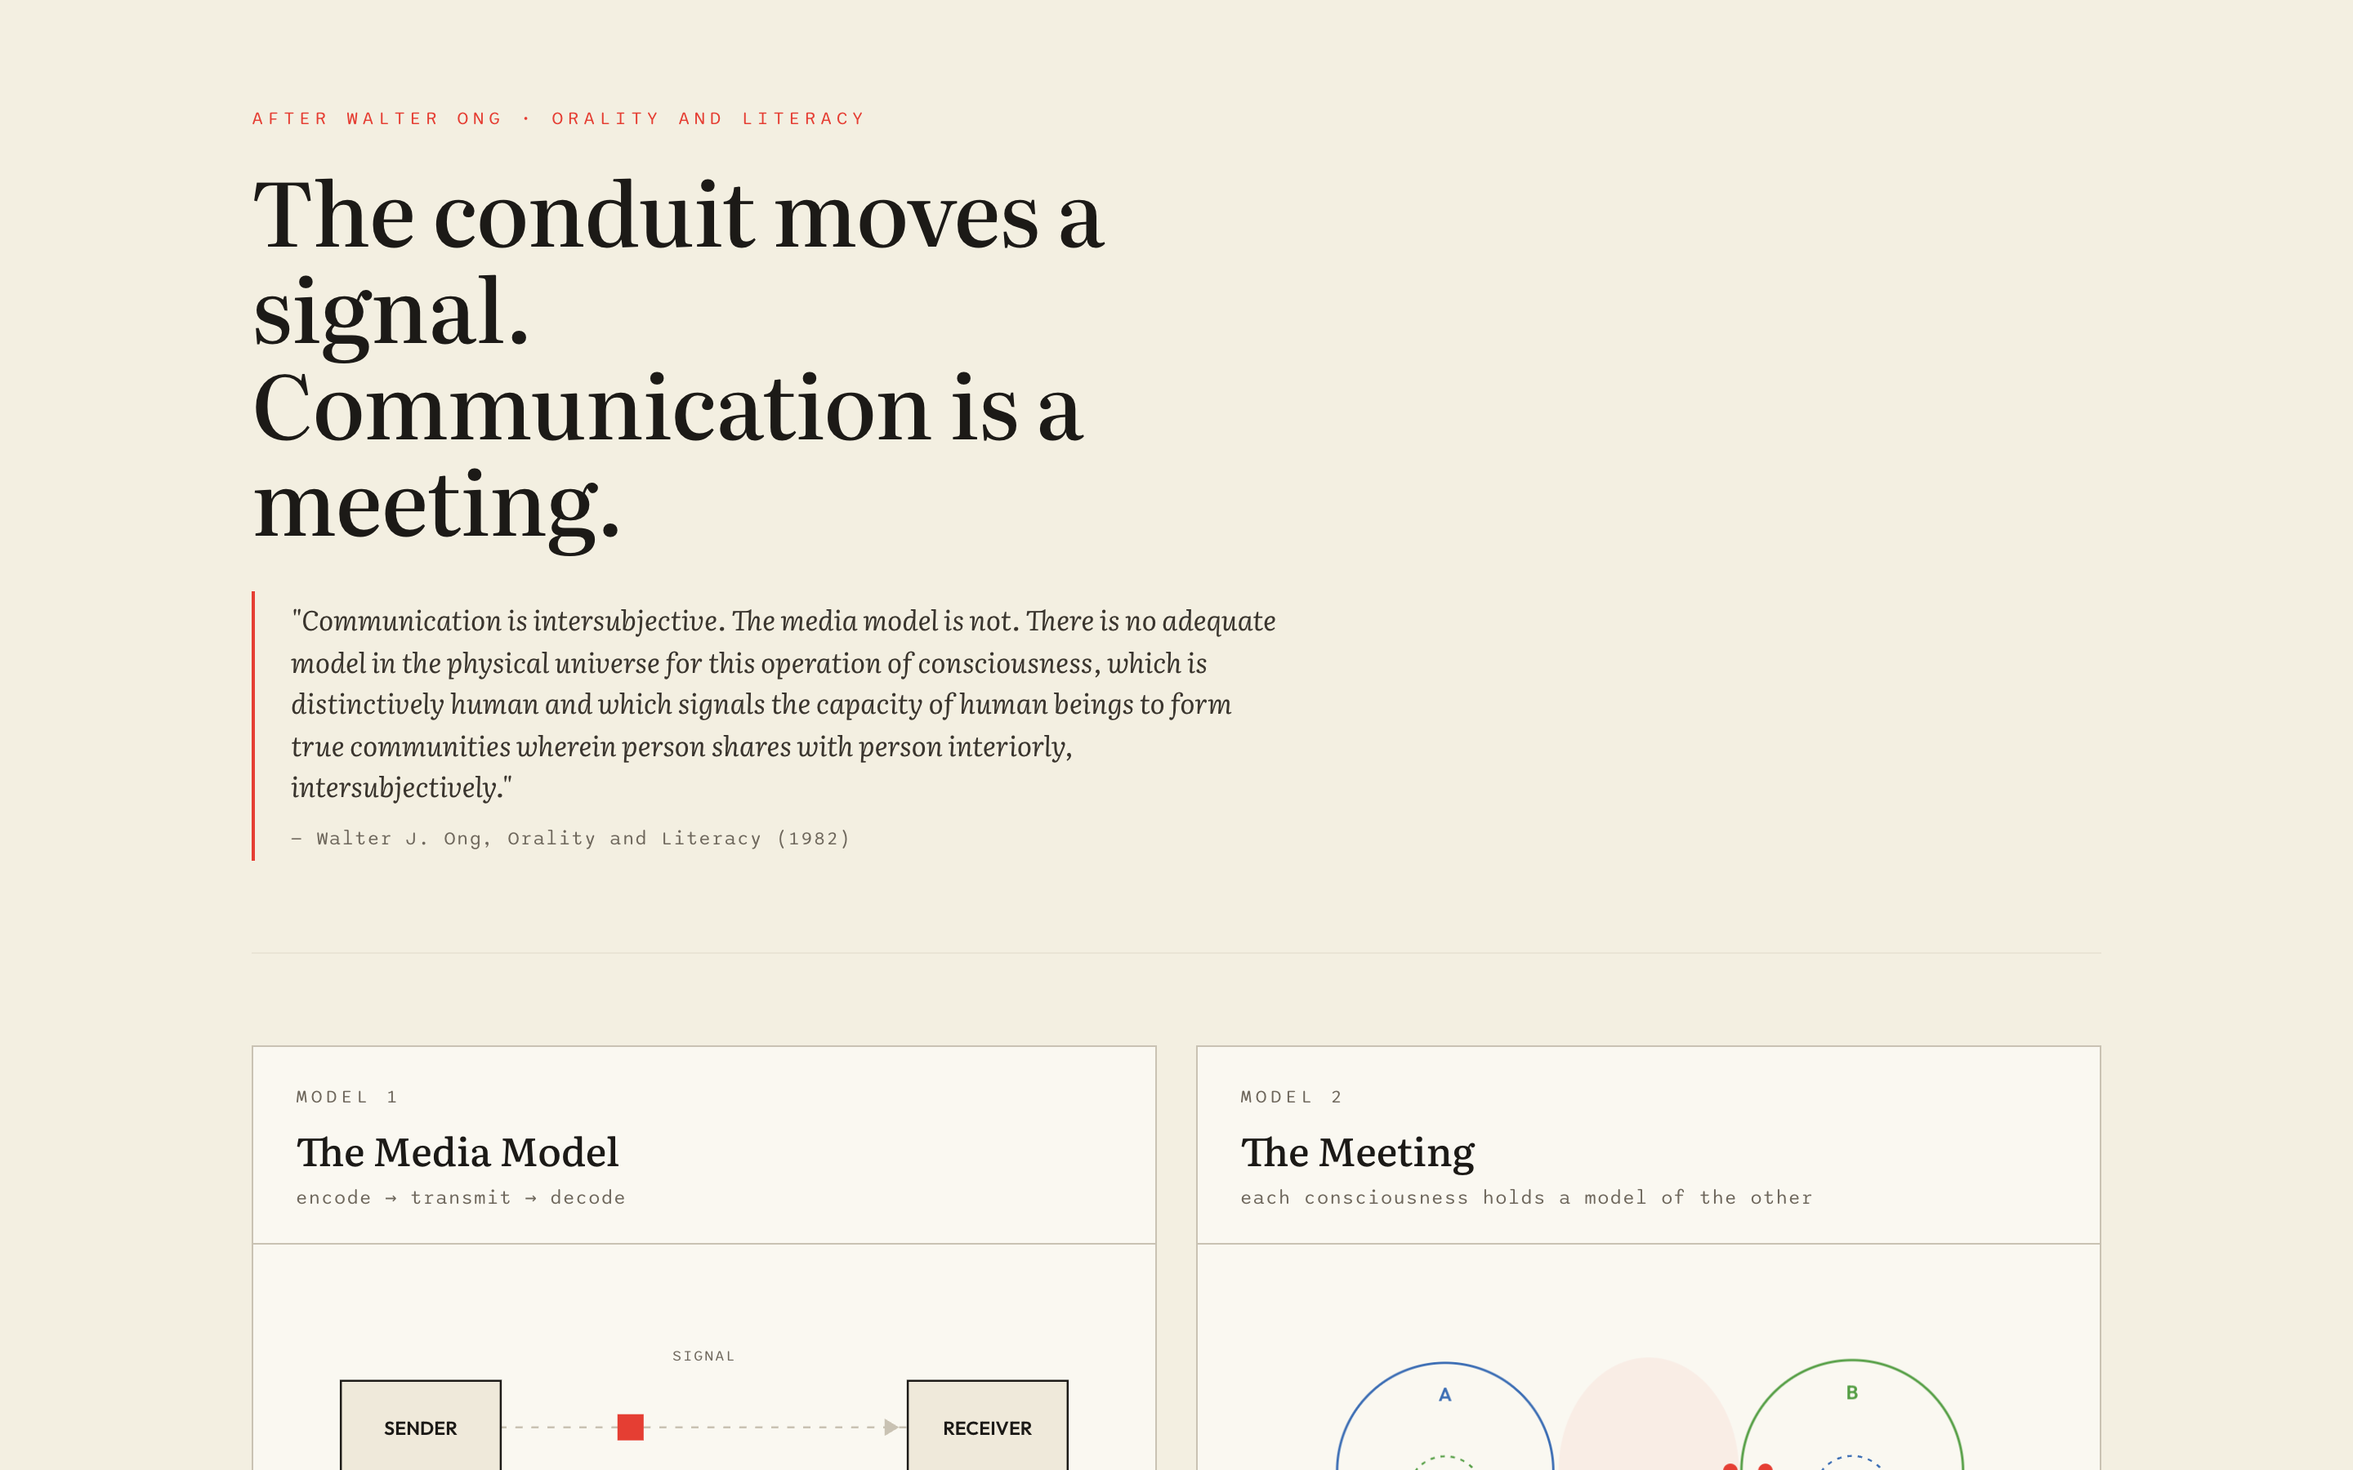
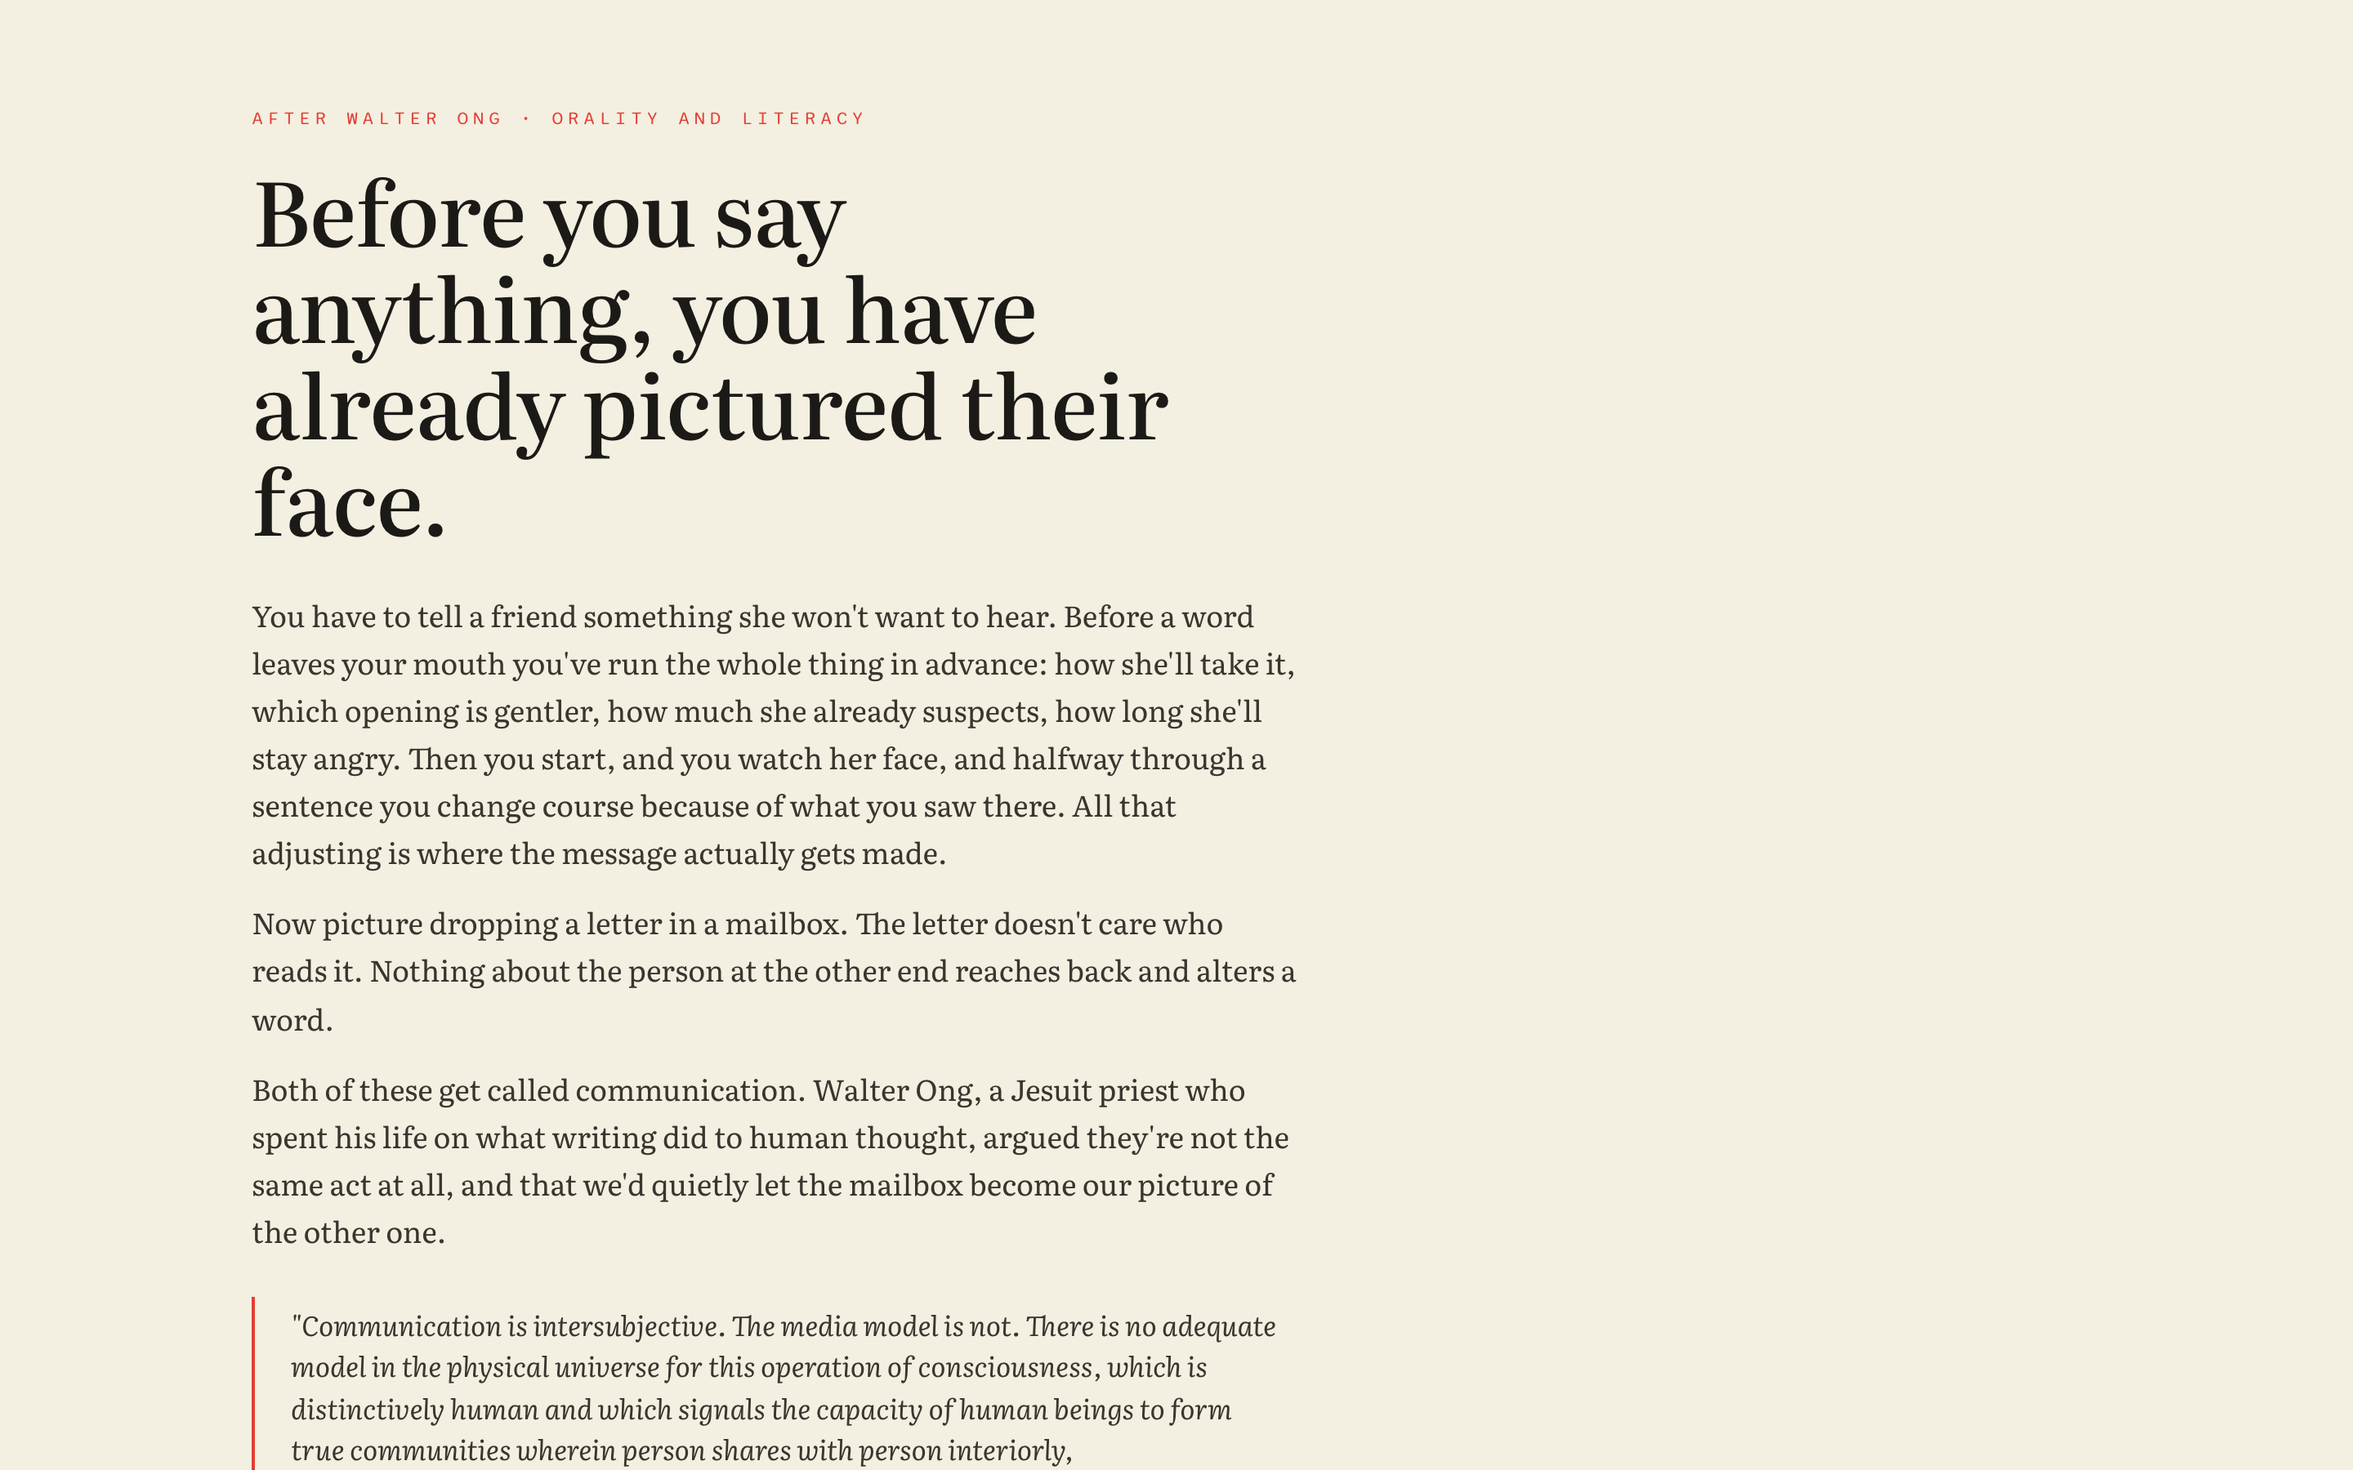
media model: rewrite copy for a general reader
The page assumed you'd read Ong and knew information theory. It opened on an
abstract headline, then a dense block quote about "this operation of
consciousness," and only got concrete around Model 3. A reader who didn't
already agree had no way in.

Rewritten to lead with the experience and name it afterwards. The opening is
now a scene most people have lived: you have to tell a friend something she
won't want to hear, you rehearse it, you watch her face, you change course
mid-sentence. Then the mailbox as contrast. Ong's quote stays but now lands on
a reader who has already felt the distinction, and a short gloss follows it
translating "intersubjective" into what it actually describes.

Each panel now carries a concrete anchor rather than a definition. Model 1 is
the postal service. Model 2 is the friend who flinches at pity. Model 3 asks
whose face you are picturing when you write for a feed. Model 4 is three in
the morning with something listening. The closing head is "a mailbox that
learned to act like a friend" instead of "the conduit perfected."

Vocabulary that went: interiors, dyad, subjecthood, reciprocity is lopsided,
optimizer, token, node, the standalone Model N references in running prose.
The comparison table lost its abstractions too — "the receiver is unchanged
machinery" is now "the receiver is equipment, it doesn't change."

The schematic labels in the SVGs (encode/transmit/decode) are deliberately
[…]

diff --git a/src/pages/media-model-vs-communication.html b/src/pages/media-model-vs-communication.html
@@ -52,6 +52,16 @@
     margin:0 0 28px;
     max-width:18ch;
   }
+  .lede{
+    font-family:var(--serif);
+    font-size:1.12rem;
+    line-height:1.62;
+    color:#3a352e;
+    max-width:62ch;
+    margin:0 0 26px;
+  }
+  .lede p{margin:0 0 14px}
+  .lede p:last-child{margin-bottom:0}
   .epigraph{
     border-left:2px solid var(--red);
     padding:4px 0 4px 22px;
@@ -280,11 +290,21 @@
 <div class="wrap">
 
   <p class="kicker">After Walter Ong · Orality and Literacy</p>
-  <h1>The conduit moves a signal. Communication is a meeting.</h1>
+  <h1>Before you say anything, you have already pictured their face.</h1>
+
+  <div class="lede">
+    <p>You have to tell a friend something she won't want to hear. Before a word leaves your mouth you've run the whole thing in advance: how she'll take it, which opening is gentler, how much she already suspects, how long she'll stay angry. Then you start, and you watch her face, and halfway through a sentence you change course because of what you saw there. All that adjusting is where the message actually gets made.</p>
+    <p>Now picture dropping a letter in a mailbox. The letter doesn't care who reads it. Nothing about the person at the other end reaches back and alters a word.</p>
+    <p>Both of these get called communication. Walter Ong, a Jesuit priest who spent his life on what writing did to human thought, argued they're not the same act at all, and that we'd quietly let the mailbox become our picture of the other one.</p>
+  </div>
 
   <div class="epigraph">
     <p>"Communication is intersubjective. The media model is not. There is no adequate model in the physical universe for this operation of consciousness, which is distinctively human and which signals the capacity of human beings to form true communities wherein person shares with person interiorly, intersubjectively."</p>
     <cite>— Walter J. Ong, Orality and Literacy (1982)</cite>
+  </div>
+
+  <div class="lede" style="margin-top:22px">
+    <p>Ong's word for it is <span class="em">intersubjective</span>, which sounds forbidding and means something you do a hundred times a day: two people each holding a live picture of the other, each adjusting to it, neither picture ever finished. Nothing in physics works this way. You can describe a radio that way, and the description will be wrong in the one respect that matters.</p>
   </div>
 
   <hr class="rule">
@@ -322,7 +342,7 @@
           </svg>
         </div>
         <div class="panel-foot">
-          <p>The message is the same object at both ends. Nothing on the receiving side is anticipated, modeled, or changed. Transport, not contact — one direction, sealed packets, an audience that only receives.</p>
+          <p>The postal service. A thought gets packed into words, the words travel, someone at the far end opens the box, and the thought comes back out. What arrives is what was sent. The sender never has to picture the reader, and the reader's existence changes nothing about what went into the box. This is the picture most of us carry around without noticing, and it's the one sitting inside the word "message."</p>
         </div>
       </div>
     </div>
@@ -333,7 +353,7 @@
         <div class="panel-head">
           <span class="panel-num">MODEL 2</span>
           <h2 class="panel-title">The Meeting</h2>
-          <p class="panel-sub">each consciousness holds a model of the other</p>
+          <p class="panel-sub">each person holds a picture of the other</p>
         </div>
         <div class="stage">
           <svg viewBox="0 0 580 220" role="img" aria-label="Two consciousnesses, each containing a model of the other, exchange signals in both directions and are mutually changed.">
@@ -362,7 +382,7 @@
           </svg>
         </div>
         <div class="panel-foot">
-          <p>Each side carries a working model of the other — B′ inside A, A′ inside B — and adjusts to it before a word is spoken. The exchange runs both ways at once. Both are at stake; both are changed. The overlap is not a channel but a meeting.</p>
+          <p>Here both people are doing what the mailbox never does. Each carries a rough working picture of the other and keeps consulting it. She flinches at pity, so you drop the sympathetic voice before you use it. She knows you understate bad news, so she reads your calm as worse than it sounds. Each of you is adjusting to a picture of someone who is, right then, adjusting to a picture of you. That's what the overlap in the middle is. Both of you walk away slightly different from how you arrived.</p>
         </div>
       </div>
     </div>
@@ -372,20 +392,20 @@
   <!-- ============ COMPARISON ============ -->
   <div class="compare">
     <div class="crow">
-      <div class="cell l"><span class="tag">Media Model</span>One direction, sender to receiver.</div>
-      <div class="cell r"><span class="tag">The Meeting</span>Reciprocal — each anticipates the other.</div>
+      <div class="cell l"><span class="tag">Media Model</span>It goes one way.</div>
+      <div class="cell r"><span class="tag">The Meeting</span>Both people are reading each other at once.</div>
     </div>
     <div class="crow">
-      <div class="cell l"><span class="tag">Media Model</span>The message is carried intact.</div>
-      <div class="cell r"><span class="tag">The Meeting</span>Meaning is formed between two interiors.</div>
+      <div class="cell l"><span class="tag">Media Model</span>What arrives is what was sent.</div>
+      <div class="cell r"><span class="tag">The Meeting</span>The meaning gets built in the space between them.</div>
     </div>
     <div class="crow">
-      <div class="cell l"><span class="tag">Media Model</span>The receiver is unchanged machinery.</div>
-      <div class="cell r"><span class="tag">The Meeting</span>Both parties are altered by the exchange.</div>
+      <div class="cell l"><span class="tag">Media Model</span>The receiver is equipment. It doesn't change.</div>
+      <div class="cell r"><span class="tag">The Meeting</span>Both people come out of it altered.</div>
     </div>
     <div class="crow">
-      <div class="cell l"><span class="tag">Media Model</span>No model of the other is required.</div>
-      <div class="cell r"><span class="tag">The Meeting</span>Holding a model of the other is the whole act.</div>
+      <div class="cell l"><span class="tag">Media Model</span>You never have to imagine the other person.</div>
+      <div class="cell r"><span class="tag">The Meeting</span>Imagining the other person is the entire job.</div>
     </div>
   </div>
 
@@ -456,7 +476,8 @@
           </svg>
         </div>
         <div class="panel-foot">
-          <p>It looks more like a meeting — many to many, everyone a sender, return signals everywhere. But the return is not to a particular other you have modeled; it is to no one and everyone at once. You can't hold a million interiors, so instead you model the platform's response — what gets reach. The channel is no longer a neutral wire. It selects, ranks, amplifies, and just as decisively suppresses — what it withholds shapes the exchange as much as what it sends — and the loop closes at the metric, not at a person who has read you and been changed. A conduit, but with a will.</p>
+          <p>At a glance this is the second picture, scaled up. Everyone can post, and signals fly in every direction. But when you write for a feed, whose face are you picturing? You can't hold a million of them, so you stop trying, and you start picturing the thing that decides who sees you. You learn what it rewards, and you write toward that.</p>
+          <p>The wire has also stopped being a wire. It ranks what you wrote and decides who gets it, and what it quietly declines to deliver shapes the conversation as much as what it passes along. The loop closes on a number rather than on a person who read you and was changed by it. A conduit with opinions.</p>
         </div>
       </div>
     </div>
@@ -511,7 +532,8 @@
           </svg>
         </div>
         <div class="panel-foot">
-          <p>At a glance this is Model 2 — a dyad, signals both ways, the rhythm of dialogue. But the other node is the red optimizer from Model 3, moved out of the channel and into the interlocutor slot: the thing you take yourself to be speaking to. The user reaches out to a someone (the dashed circle on the left); the model returns a performance built by predicting the next token, holding not an interior but a YOU′ assembled from your input. As in Model 3, you end up modeling the system's response — what yields a good answer — rather than a person. And there is no second person beyond it. The form is Model 2; the mechanism is Model 1.</p>
+          <p>This one has the shape of a conversation. Two parties, words both ways, the rhythm of talk, the distinct feeling of being followed. It's three in the morning and something is listening.</p>
+          <p>But the thing in the other chair is the ranking machine from the previous panel, moved out of the wire and into the seat where the person sits. You reach toward a someone, the dashed circle on the left. What answers is a system choosing, one word at a time, which word should plausibly come next. It holds a sketch of you assembled from what you typed a moment ago, and behind the sketch there's nobody home. So you do what you did with the feed: you learn what phrasing gets a good answer, and you write toward that. You're modeling the machine again.</p>
         </div>
       </div>
     </div>
@@ -520,10 +542,10 @@
   <!-- ============ CLOSING BAND: THE CHATBOT ============ -->
   <div class="band">
     <p class="kicker">The thread through four models</p>
-    <h2>It is the conduit perfected — running Model 1 while performing Model 2.</h2>
-    <p>A language model takes an input string and returns an output string by prediction. Structurally it is the left panel, the most literal instance of the thing Ong set his definition against. It does not hold an interior that holds a model of yours; the reciprocity is lopsided.</p>
-    <p>Notice the symmetry with Model 3. Social media seats a non-person in the <span class="em">channel</span> — the thing you speak through. The chatbot seats one in the <span class="em">interlocutor</span> slot — the thing you take yourself to be speaking to. Different seat, same intrusion: a genuine other recedes, and an optimizing system takes its place in the structure of the exchange.</p>
-    <p>What is new is that this conduit produces every outward sign of the right panel. It performs subjecthood well enough that the distinction now has to be <span class="em">argued</span> rather than assumed. Ong's line is not falsified. It is staged — pulled apart into the appearance of meeting and the substance of it, with the first running at full power and the second left in question.</p>
+    <h2>A mailbox that learned to act like a friend.</h2>
+    <p>Take the interface away and a language model does what the first panel does. Text goes in, text comes out, picked by prediction. It's the postal service with an extremely good guess about what you were hoping to receive. It doesn't hold a picture of you the way your friend does, and there's no second party whose face you're reading.</p>
+    <p>Notice how neatly the last two panels rhyme. Social media put a machine in the <span class="em">channel</span>, the thing you speak through. The chatbot puts one in the <span class="em">chair</span>, the thing you take yourself to be speaking to. Different seat, same result: a real other person slides out of the picture, and a system optimizing for something takes their place in the shape of the exchange.</p>
+    <p>What's genuinely new is that this version throws off every outward sign of the real thing. It performs its way through a conversation well enough that the difference now has to be argued instead of simply felt. That's the part worth sitting with. Ong's distinction hasn't been disproved. It's been pulled in two, with the appearance of meeting running at full power and the substance of it left an open question.</p>
   </div>
 
   <footer>media-model-vs-communication · for the After the Book project</footer>
